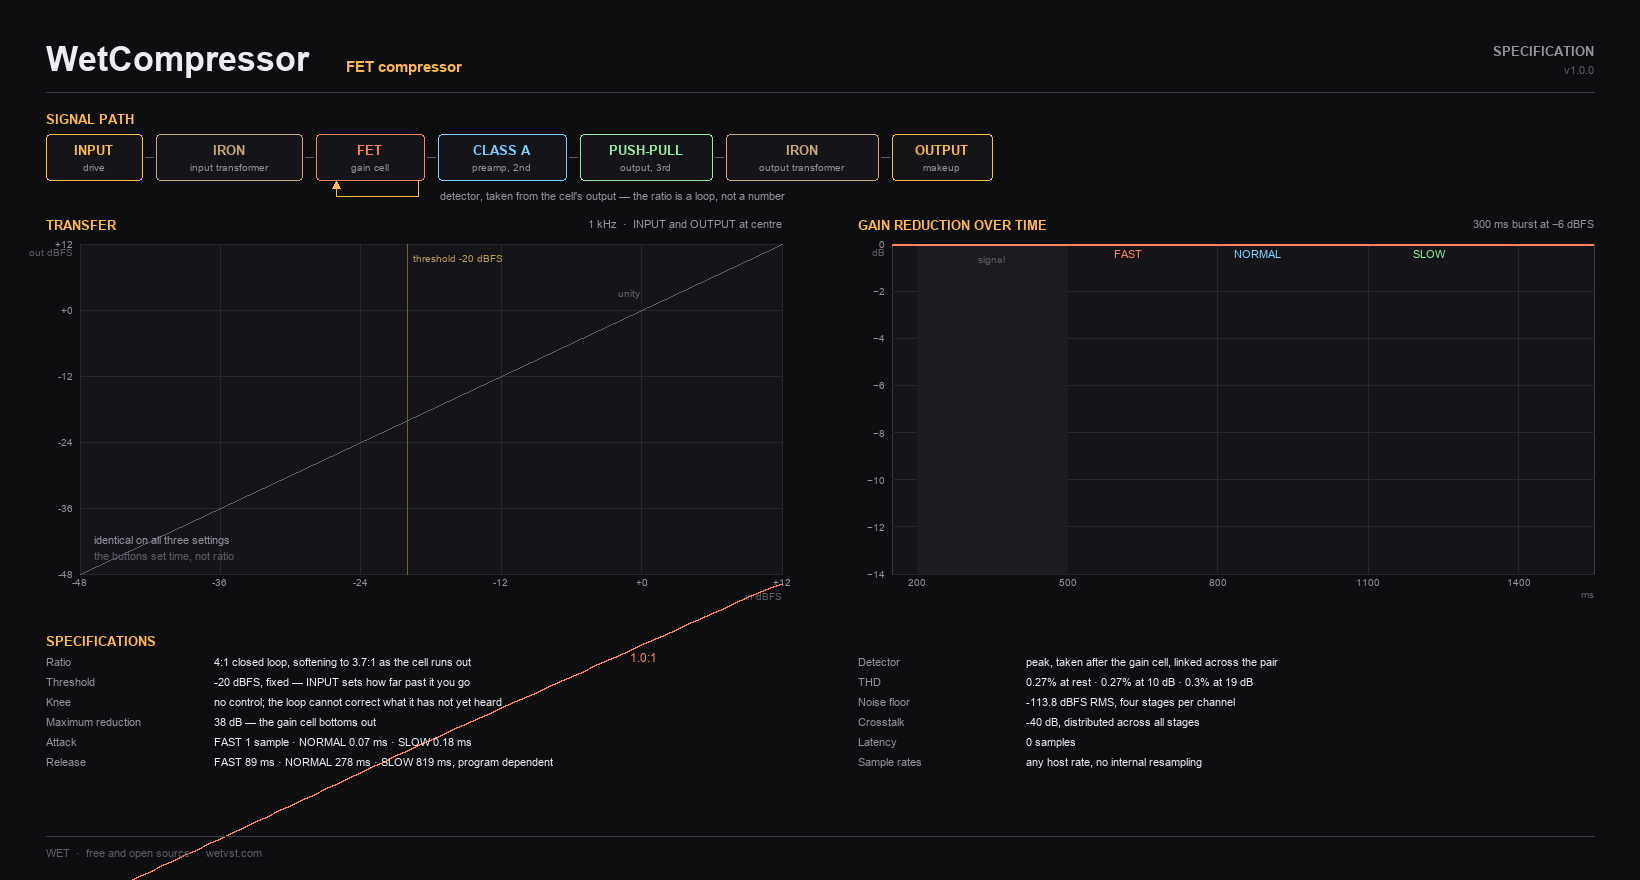
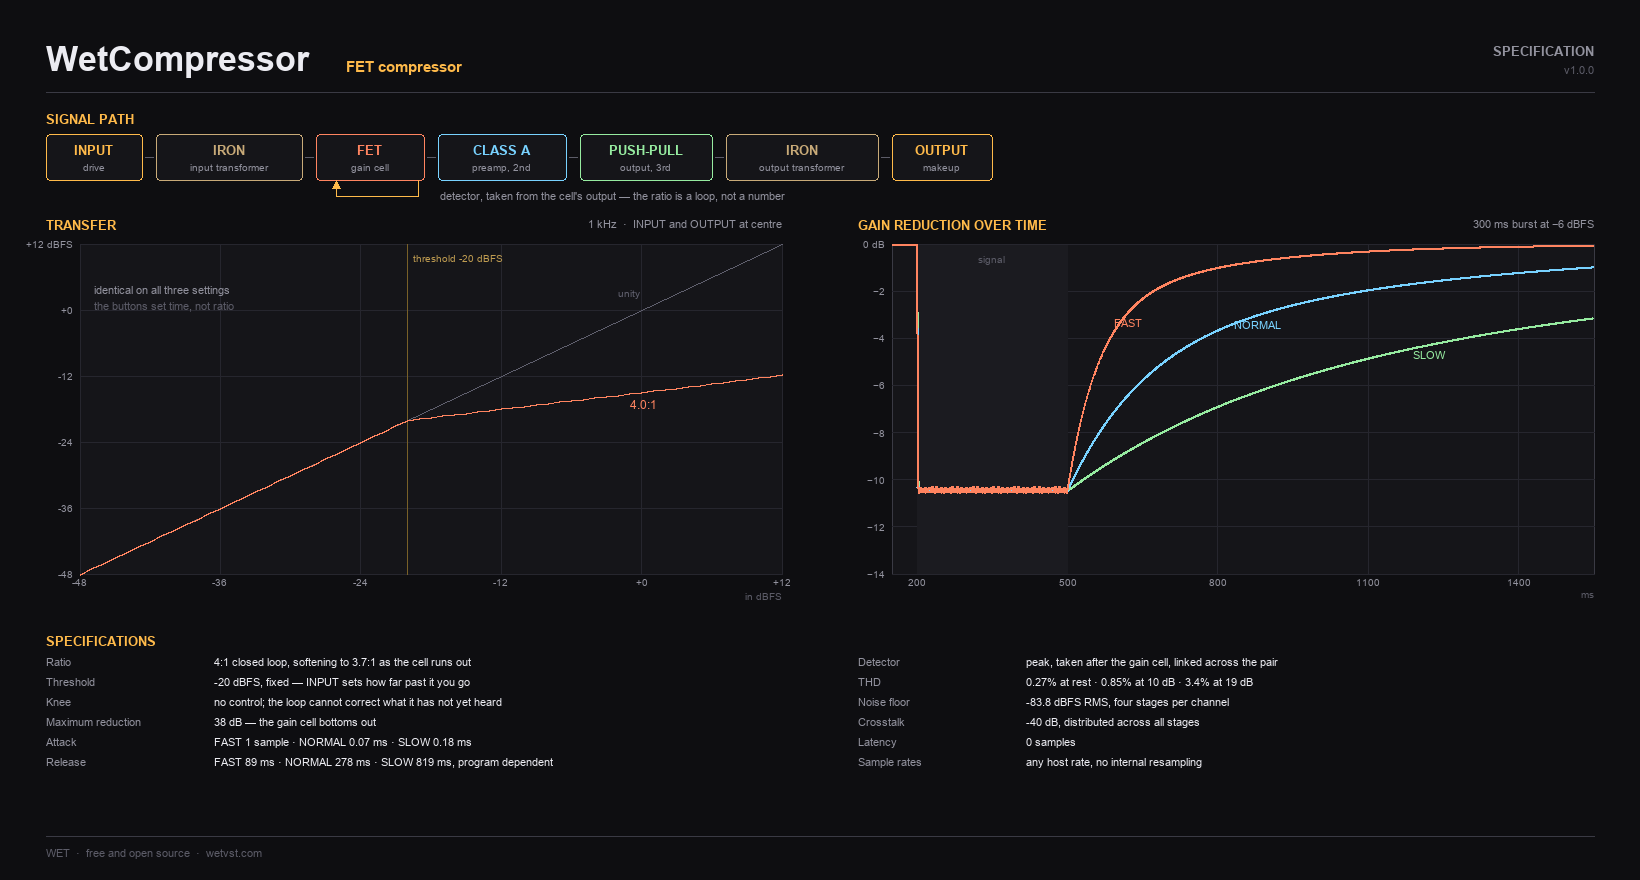
The measurement harness was still setting the knobs as fractions
Settings.input and .output became step indices when the knobs went stepped, and
comptest kept passing 0.5. That truncates to step 0, which is -30 dB in AND out,
so every number on the specification sheet described a compressor that never
reached its own threshold: a straight 1:1 line, no gain reduction on any
setting, and a noise floor 30 dB better than the real one.

diff --git a/tools/comptest.cpp b/tools/comptest.cpp
@@ -97,9 +97,14 @@ struct Engine
     Engine(int mode, bool analog)
     {
         CompEngine::Settings s;
-        s.input = 0.5;      // 0 dB
-        s.output = 0.5;     // 0 dB
-        s.mode = mode;
+        // Step INDICES, not normalised values. They were doubles once and the
+        // literal 0.5 survived the change to detents, where it truncates to
+        // step 0 - which is -30 dB in AND out, so the measurement described a
+        // compressor that never reached its own threshold: a straight 1:1
+        // line, no gain reduction, and a noise floor 30 dB too good.
+        s.input  = CompRange::kCentreStep;   // 0 dB
+        s.output = CompRange::kCentreStep;   // 0 dB
+        s.mode   = mode;
         eng.prepare(kRate, kBlock);
         eng.setSettings(s);
         eng.setSaturationEnabled(analog);
